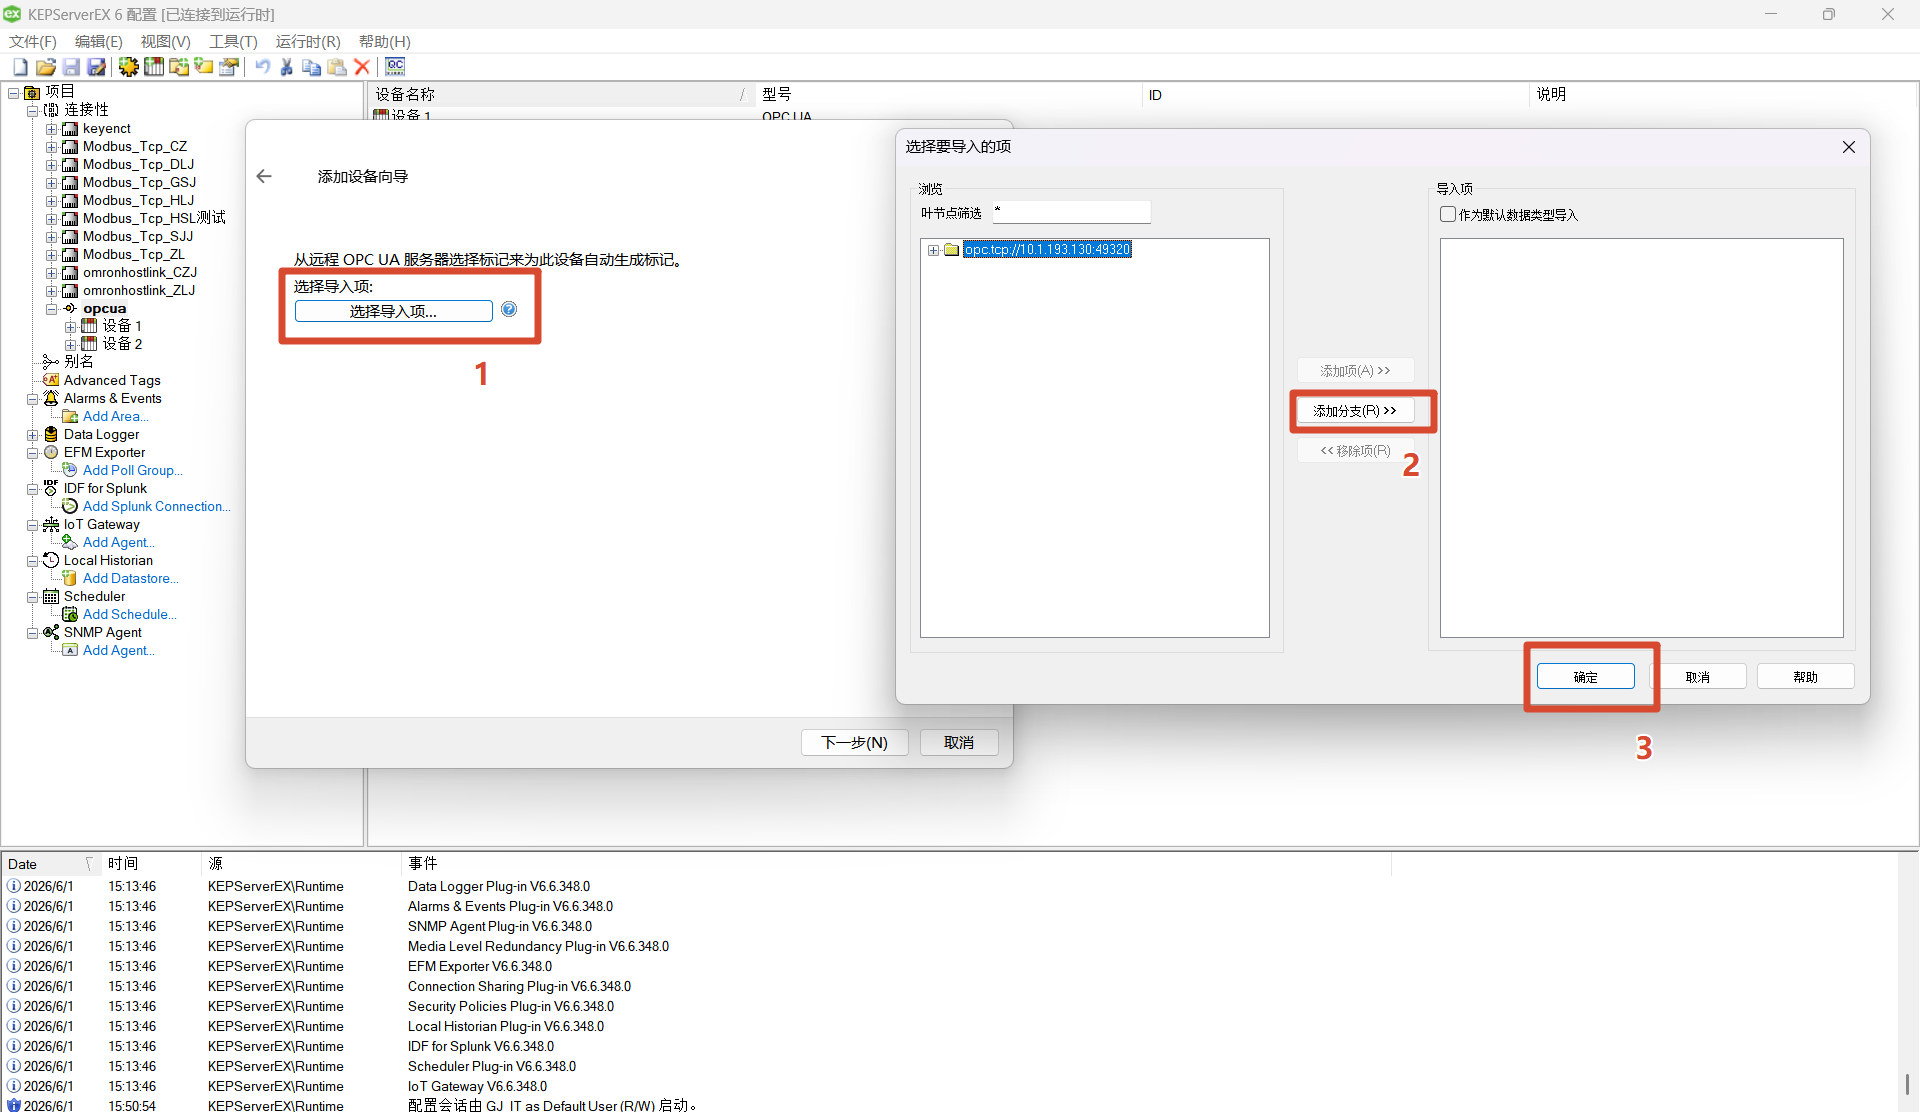
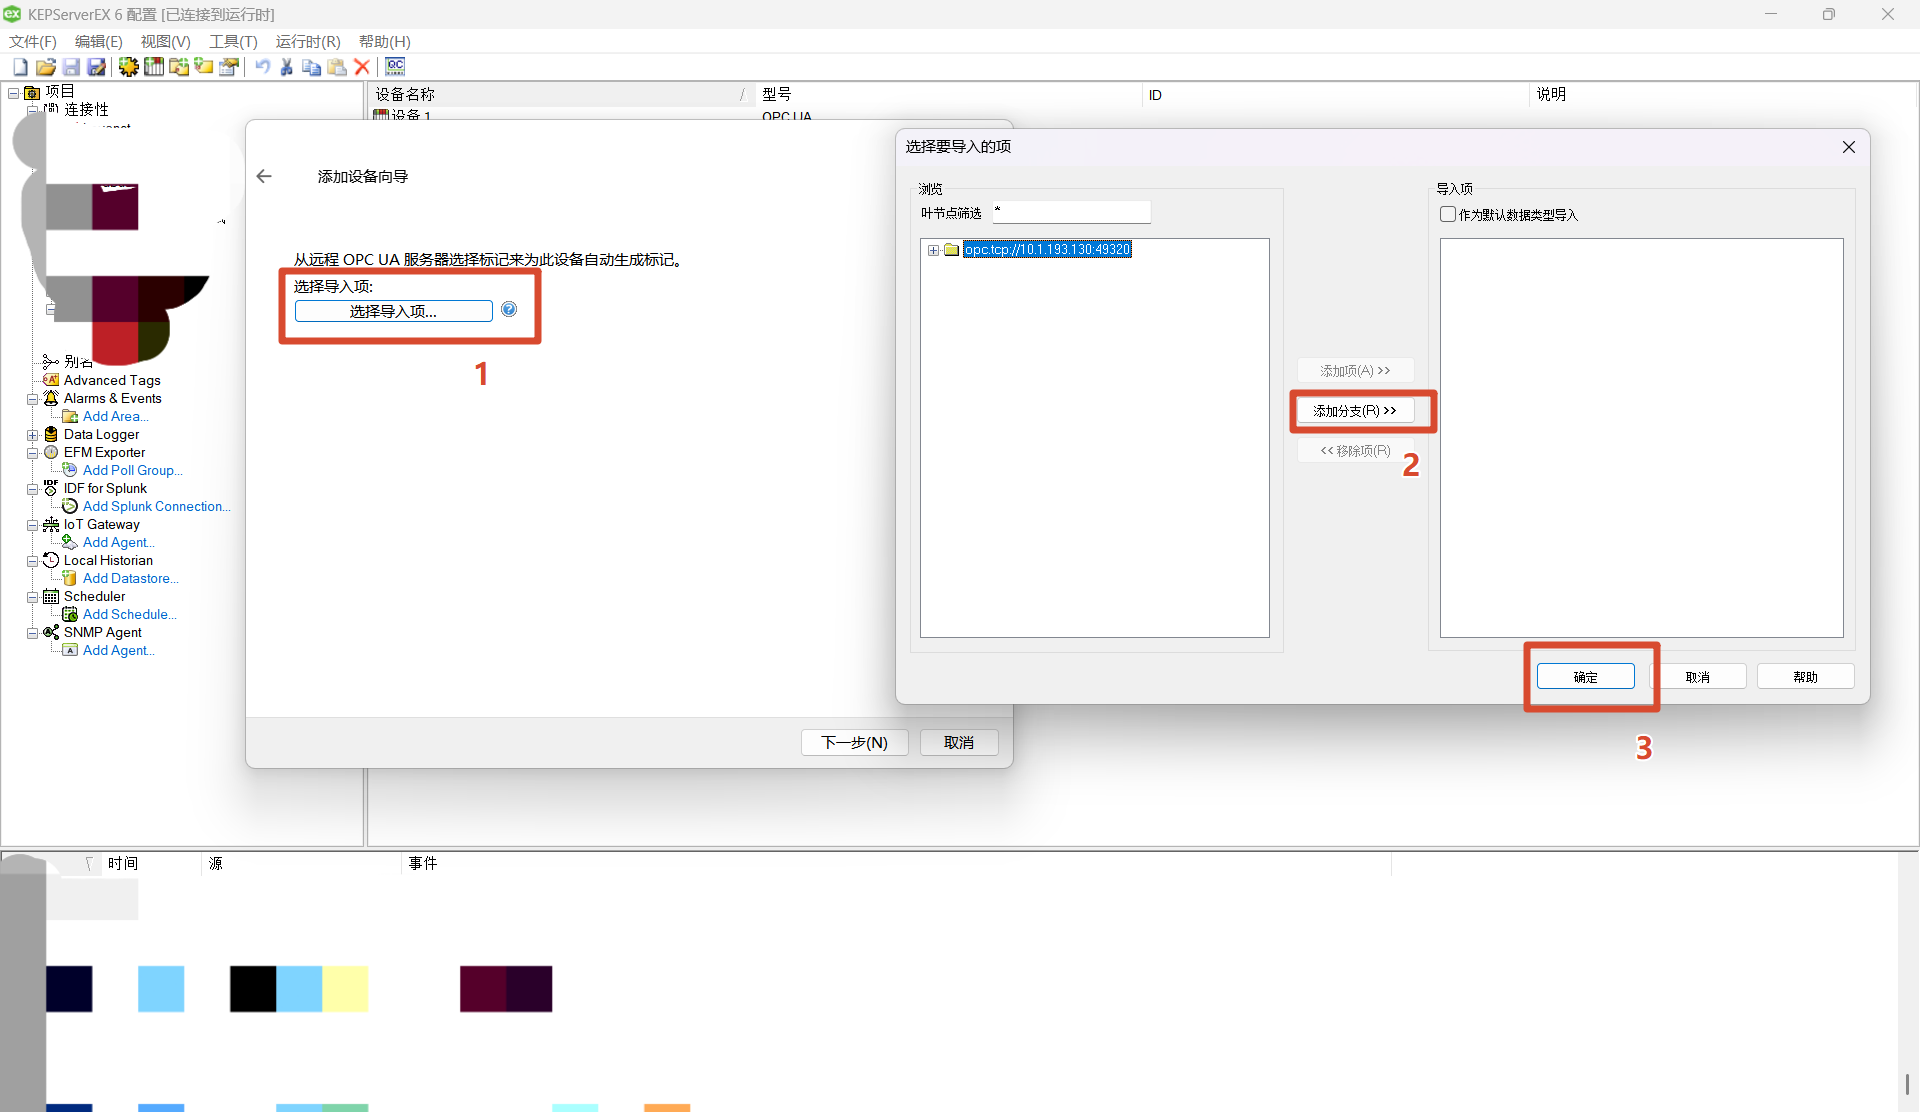
增加go部署到IIS教程

Changed region(s): [[0.0, 0.7644, 0.375, 1.0], [0.0, 0.0917, 0.125, 0.3363]]

diff --git a/src/acrticle/一些随记/go部署到IIS.md b/src/acrticle/一些随记/go部署到IIS.md
@@ -1,0 +1,139 @@
+---
+title: go部署到IIS
+icon:
+order: 45
+category:
+  - 一些随记
+tag:
+  - golang
+  - IIS
+---
+
+# Go部署到IIS
+
+## 前置准备
+
+### 1. 安装ASP.NET Core Hosting Bundle
+
+首先需要安装 **ASP.NET Core Hosting Bundle**。
+
+### 2. 设置IIS_IUSRS权限
+
+确保 `IIS_IUSRS` 用户有相应的权限。
+
+---
+
+## 配置步骤
+
+### 1. 动态获取端口
+
+在Go代码中动态获取端口（并设置默认的端口）：
+
+```go
+port := os.Getenv("ASPNETCORE_PORT")
+if port == "" {
+    port = "8080"
+}
+
+r.Run(":" + port)
+```
+
+### 2. 创建web.config文件
+
+在项目根目录创建 `web.config` 文件：
+
+```xml
+<?xml version="1.0" encoding="utf-8"?>
+<configuration>
+  <location path="." inheritInChildApplications="false">
+    <system.webServer>
+      <handlers>
+        <add name="aspNetCore" path="*" verb="*" modules="AspNetCoreModuleV2" resourceType="Unspecified" />
+      </handlers>
+      <aspNetCore processPath=".\Test_HelloWorld_WebAPI.exe" arguments="" stdoutLogEnabled="false" stdoutLogFile=".\stdout" />
+    </system.webServer>
+  </location>
+</configuration>
+```
+
+---
+
+## 完整代码示例
+
+### main.go
+
+```go
+package main
+
+import (
+	"Test_HelloWorld_WebAPI/router"
+	"os"
+
+	"github.com/gin-gonic/gin"
+)
+
+func main() {
+	r := gin.Default() // 创建一个默认的 Gin 路由器
+	// Load configuration
+
+	// Setup all routes
+	router.SetupRoutes(r) // 配置所有路由，这个是自己写的函数文件
+
+
+	port := os.Getenv("ASPNETCORE_PORT")
+	if port == "" {
+		port = "8080"
+	}
+	
+	r.Run(":" + port)
+}
+```
+
+### service/hello_service.go
+
+```go
+service/hello_service.go
+
+
+package service
+
+import (
+	"net/http"
+
+	"github.com/gin-gonic/gin"
+)
+
+func HelloWorld(c *gin.Context) {
+
+	c.JSON(http.StatusOK, gin.H{
+		"message": "hello world",
+	})
+
+}
+```
+
+### router/router.go
+
+```go
+package router
+
+import (
+	"Test_HelloWorld_WebAPI/service"
+
+	"github.com/gin-gonic/gin"
+)
+
+func SetupRoutes(r *gin.Engine) {
+
+	// 使用路由组的方式（推荐）
+	// 创建路由组，统一添加 "/api" 前缀
+	api := r.Group("/api")
+	{
+		// 注册 GET 路由：/api/hello -> service.HelloWorld
+		api.GET("/hello", service.HelloWorld)
+	}
+
+	// 不使用路由组的方式（不推荐，仅作演示）
+	// r.GET("/api/hello", service.HelloWorld)
+}
+```